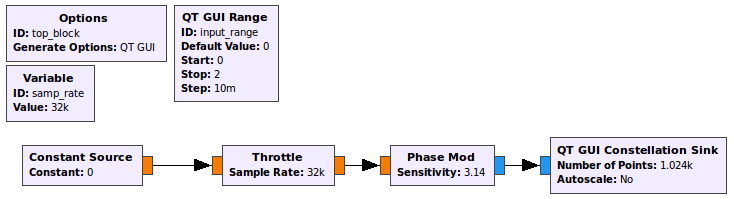
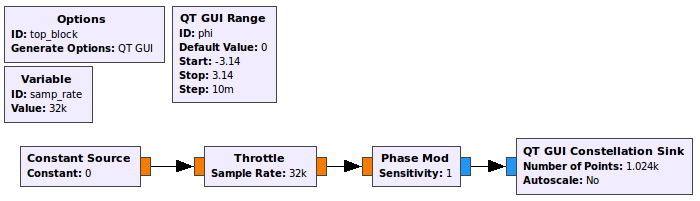
Updating pictures for Lab 3 as per Peter

diff --git a/_lab3/FM-transmitter-simulation.md b/_lab3/FM-transmitter-simulation.md
@@ -59,13 +59,13 @@ How do you transmit a *real* signal (we'll call it $$ \phi $$) as *complex* ($$ 
 - Open a new GNU Radio Companion flowgraph.
 
 - Add a *QT GUI Range* block and set its parameters as follows:
-  - *ID:* `input_range`
+  - *ID:* `phi`
   - *Default Value:* 0
-  - *Start:* 0
-  - *Stop:* 2
+  - *Start:* -3.14
+  - *Stop:* 3.14
   - *Step:* 0.01
 
-- Add a *Constant Source* block and set it's *Constant* to be `input_range`, the variable from the *QT GUI Range* block. Make sure that the block type is *Float*.
+- Add a *Constant Source* block and set it's *Constant* to be `phi`, the variable from the *QT GUI Range* block. Make sure that the block type is *Float*.
 
 - Add a *Throttle* block of type *Float*
 
@@ -78,11 +78,10 @@ How do you transmit a *real* signal (we'll call it $$ \phi $$) as *complex* ($$ 
 
 - Add a [Phase Mod](https://wiki.gnuradio.org/index.php/Phase_Mod) block.
   - Read the documentation on the block to understand what it is doing.
-  - Notice the sensitivity parameter.
-  - Set the *Sensitivity* to be 3.14 ($$ \pi $$)
+  - Notice the sensitivity parameter. Set it to be 1.
 
-- The input of the *Phase Mod* block is some GUI controlled number between 0 and 2 (we'll call it $$ x $$). The *Phase Mod* block output is $$ e^{jx\pi} $$.
-  > Notice the $$ j $$ in the above equation, and also notice the way in which the sensitivity parameter is used to multiply with $$ x $$.
+- The input of the *Phase Mod* block is some GUI controlled number between $$ -\pi $$ and $$ \pi $$. The *Phase Mod* block output is $$ e^{jx\pi} $$ where $$ x $$ is the sensitivity parameter.
+  > Notice the $$ j $$ in the above equation, and also notice the way in which the sensitivity parameter can be used.
 
 - The flowgraph should now look like the following figure.
 
@@ -90,7 +89,7 @@ How do you transmit a *real* signal (we'll call it $$ \phi $$) as *complex* ($$ 
     __*Flowgraph of a real signal being transmitted as a complex signal*__
 
 - Execute the flowgraph. You should see a small dot hovering around $$ I = 1, Q = 0 $$ which is $$ e^{j\phi} $$ where $$ \phi = 0 $$.
-- As you move the slider from 0 to 2, you are changing $$ \phi $$ from $$ 0 \rightarrow 2\pi $$.
+- As you move the slider from $$ -\pi \rightarrow \pi $$, you are changing $$ \phi $$ from $$ -\pi \rightarrow \pi $$.
 
 - You may discard this flowgraph, it is not a deliverable. However, remember how the *Phase Mod* block works. You will need to use it later.
 
@@ -109,7 +108,7 @@ You'll start by transmitting a sinusoidal message. The equations for this are sh
   - Add a *QT GUI Range* for each of $$ f_m $$, $$ f_c $$ and $$ \beta $$.
   - For the message frequency, range from 0-10 kHz with a default value of 5 kHz.
   - For the carrier frequency, range from 0-100 kHz with a default value of 25 kHz.
-  - For the beta value, range from 0-5 with a default value of 4, and a step size of 0.025.
+  - For the beta value, range from 0-10 with a default value of 4, and a step size of 0.025.
 
 - Begin by using a *Signal Source* block and a *Multiply Const* block to create the $$ \beta sin( 2\pi f_m t) $$ term.
   - In the signal source, change the *Output Type* to *Float*, and the *Waveform* to *Sine*.
